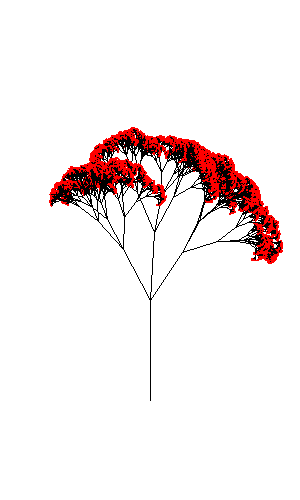
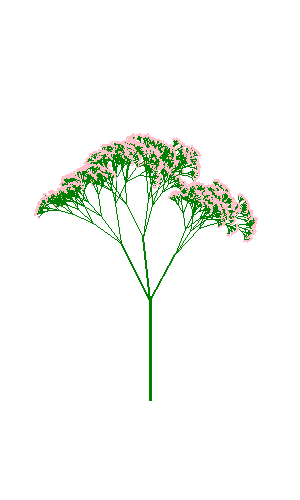
adding animation

Changed region(s): [[0.12, 0.24, 0.96, 0.81], [0.42, 0.51, 0.45, 0.54]]

diff --git a/drawPlant.py b/drawPlant.py
@@ -1,9 +1,13 @@
 from PIL import Image, ImageDraw
 import math
 import random
+import time
+import matplotlib.pyplot as plt
+import matplotlib.animation as animation
+import numpy as np
 
 class Plant():
-    def __init__(self, depth, length, angle):
+    def __init__(self, depth, length, angle, color):
 
         self.depth = depth
         self.lengthX = 300
@@ -12,9 +16,13 @@ class Plant():
         self.startY = 400
         self.length = length
         self.angle = angle
+        self.width = 3
+        self.color = color
 
         self.img = Image.new('RGB', (self.lengthX, self.lengthY), color='white')
         self.draw = ImageDraw.Draw(self.img)
+
+        self.frames = []
 
     def rotateEndPoint(self, startX, startY, length, angle):
         endX = startX + length * math.sin(angle)
@@ -22,27 +30,71 @@ class Plant():
         return endX, endY
     
     def drawPlant(self):
-        self.drawPlantHelper(self.startX, self.startY, 0, self.length, self.depth)
-        self.img.show()
+        self.drawPlantHelper(self.startX, self.startY, 0, self.length, self.depth, self.width)
         self.img.save('visualization/plant.png')
-
     
-    def drawPlantHelper(self, currStartX, currStartY, currAngle, currLength, currDepth):
-        fillColor = 'black'
+    def drawPlantHelper(self, currStartX, currStartY, currAngle, currLength, currDepth, currWidth):
+        fillColor = 'green'
 
         if (currDepth == 0):
+            self.frames.append(np.array(self.draw._image.copy()))
             return
         
         if (currDepth == 1):
-            fillColor = 'red'
+            fillColor = self.color
         
         endX, endY = self.rotateEndPoint(currStartX, currStartY, currLength, currAngle)
-        self.draw.line([(currStartX, currStartY), (endX, endY)], fill=fillColor, width=1)
+        self.draw.line([(currStartX, currStartY), (endX, endY)], fill=fillColor, width=currWidth)
 
-        self.drawPlantHelper(endX, endY, currAngle + self.angle + random.uniform(-math.pi/20, math.pi/10), currLength * random.uniform(0.5, 0.7), currDepth - 1)
-        self.drawPlantHelper(endX, endY, currAngle + random.uniform(-math.pi/15, math.pi/10), currLength * random.uniform(0.5, 0.7), currDepth - 1)
-        self.drawPlantHelper(endX, endY, currAngle - self.angle + random.uniform(-math.pi/20, math.pi/10), currLength * random.uniform(0.5, 0.7), currDepth - 1)
+        if currWidth != 1:
+            newWidth = currWidth - 1
+        
+        else:
+            newWidth = currWidth
 
-plant = Plant(12, 100, math.pi/8)
+        self.drawPlantHelper(endX, endY, currAngle + self.angle + random.uniform(-math.pi/20, math.pi/10), currLength * random.uniform(0.5, 0.7), currDepth - 1, newWidth)
+        self.drawPlantHelper(endX, endY, currAngle + random.uniform(-math.pi/15, math.pi/10), currLength * random.uniform(0.5, 0.7), currDepth - 1, newWidth)
+        self.drawPlantHelper(endX, endY, currAngle - self.angle + random.uniform(-math.pi/20, math.pi/10), currLength * random.uniform(0.5, 0.7), currDepth - 1, newWidth)
+
+    def createFramesToAnimate(self):
+        framesToAnimate = []
+        for i, frame in enumerate(self.frames):
+            if i % 100 == 0:
+                framesToAnimate.append(frame)
+
+        return framesToAnimate
+    
+plant = Plant(10, 100, math.pi/8, 'red')
 plant.drawPlant()
+
+frames = plant.createFramesToAnimate()
+fig, ax = plt.subplots()
+im = ax.imshow(frames[0])
+
+def animate(frame):
+   im.set_array(frames[frame])
+   return [im]
+
+ani = animation.FuncAnimation(fig, animate, frames=len(frames), 
+                           interval=2, repeat=False)
+plt.show()
+
+plant = Plant(10, 100, math.pi/8, 'pink')
+plant.drawPlant()
+
+frames = plant.createFramesToAnimate()
+fig, ax = plt.subplots()
+im = ax.imshow(frames[0])
+
+def animate(frame):
+   im.set_array(frames[frame])
+   return [im]
+
+ani = animation.FuncAnimation(fig, animate, frames=len(frames), 
+                           interval=2, repeat=False)
+plt.show()
+
+
+
+
 
